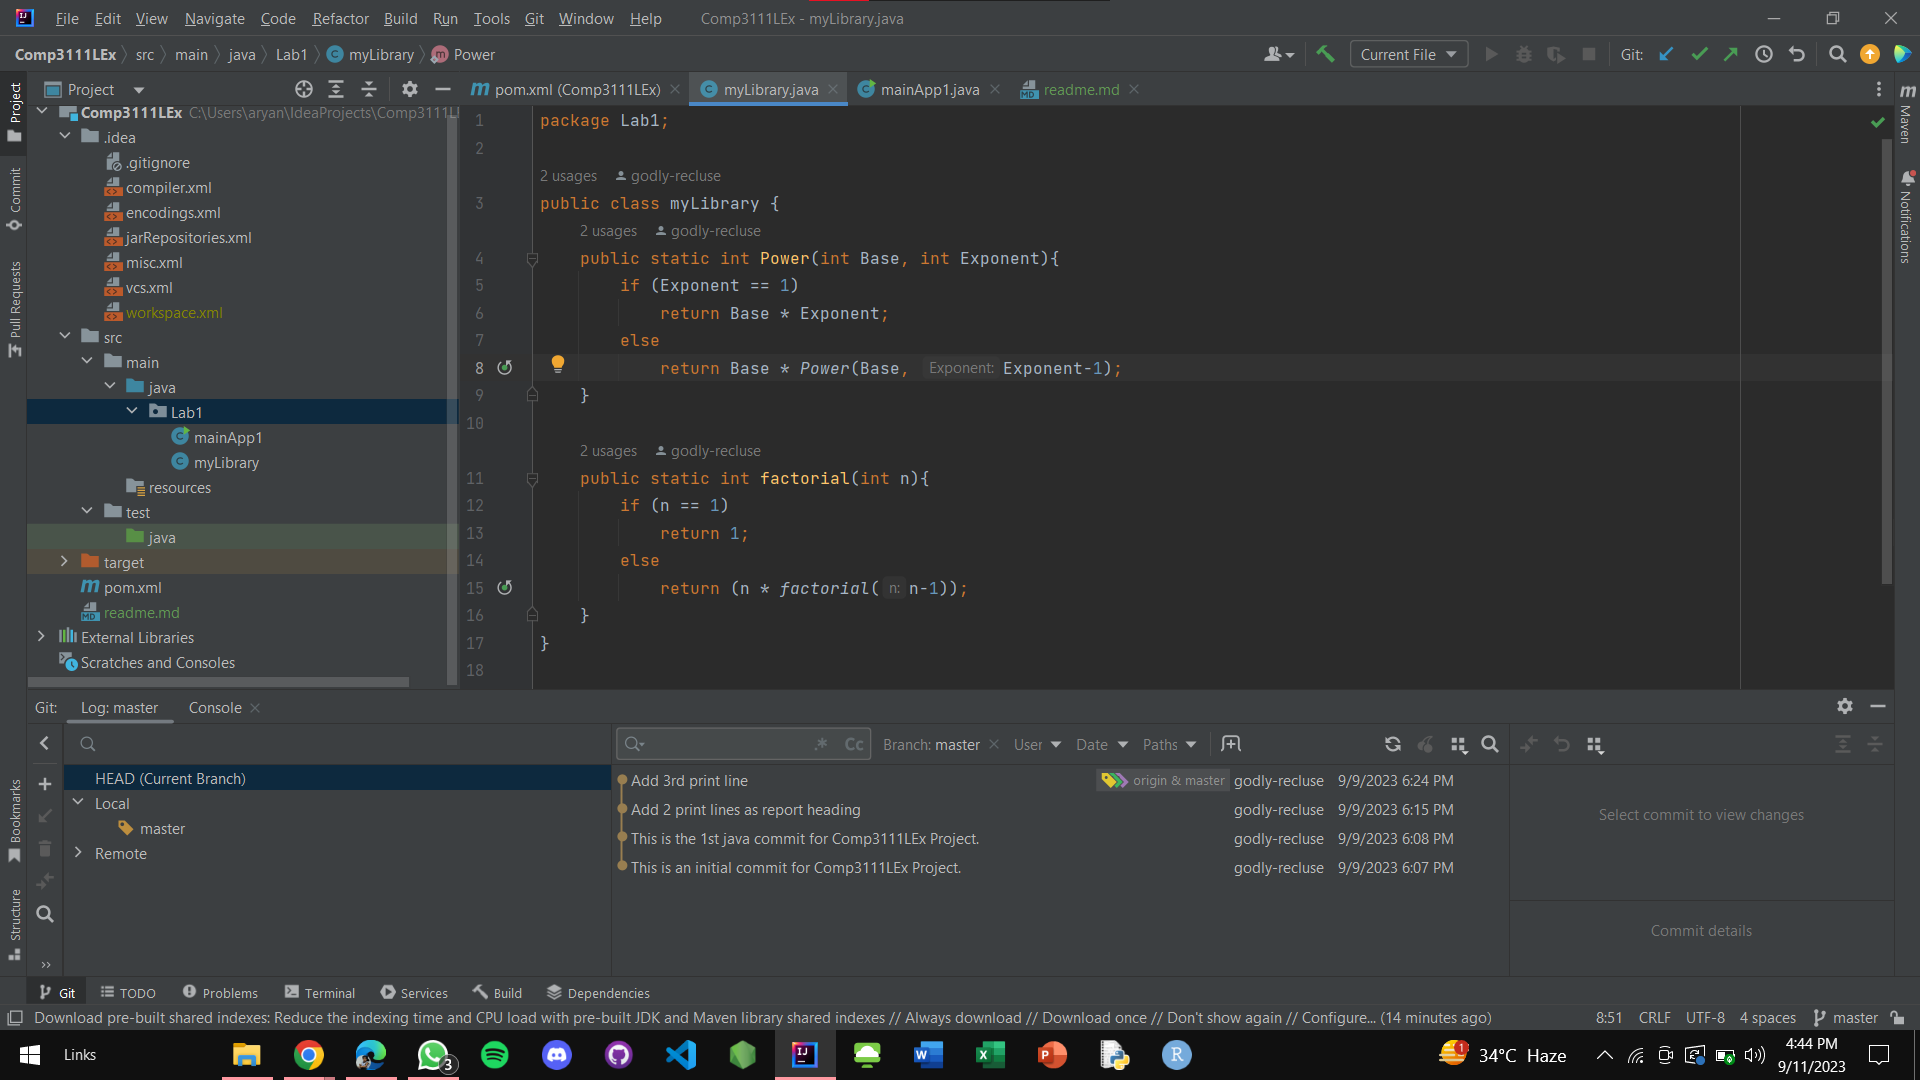
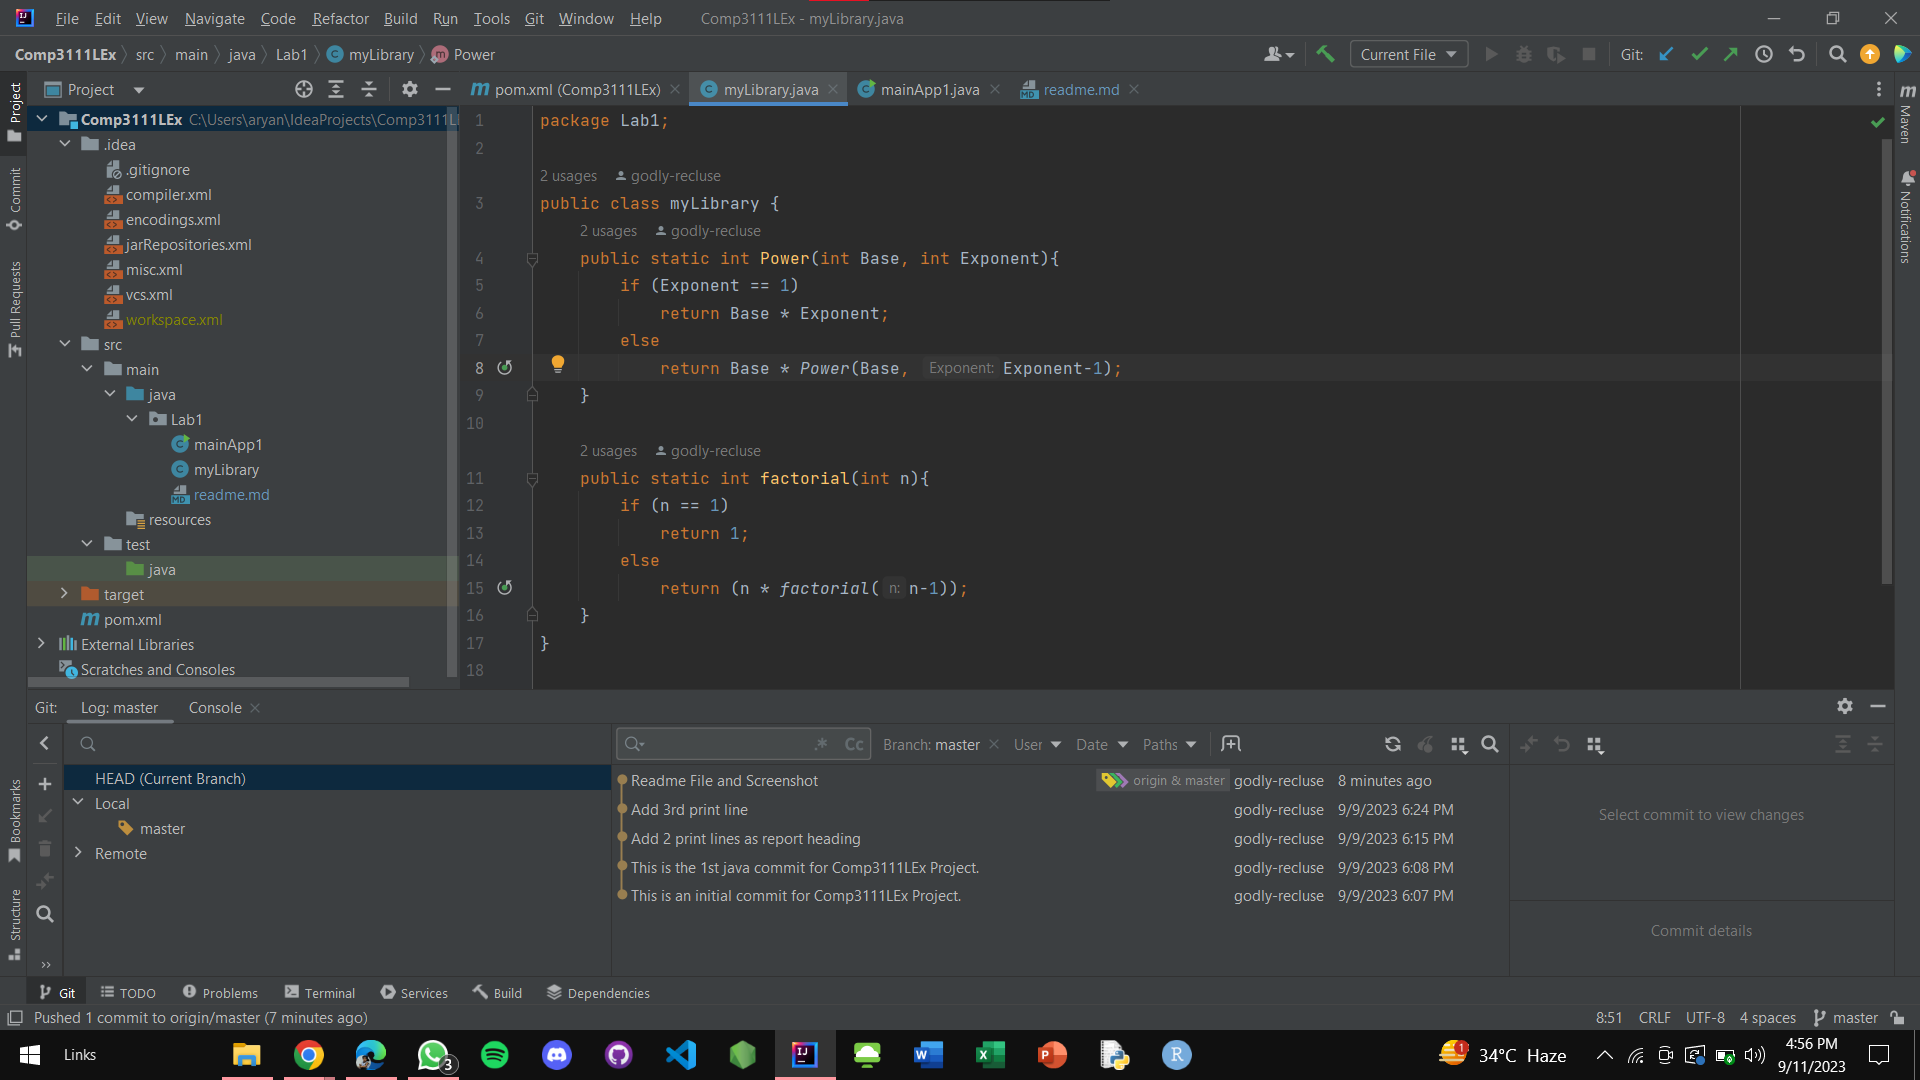
Readme File and Screenshot moved

diff --git a/src/main/java/Lab1/readme.md b/src/main/java/Lab1/readme.md
@@ -1,3 +1,3 @@
 This is the repository for COMP3111: Software Engineering
 
-![img.png](img.png)
+![img.png](../../../../img.png)
